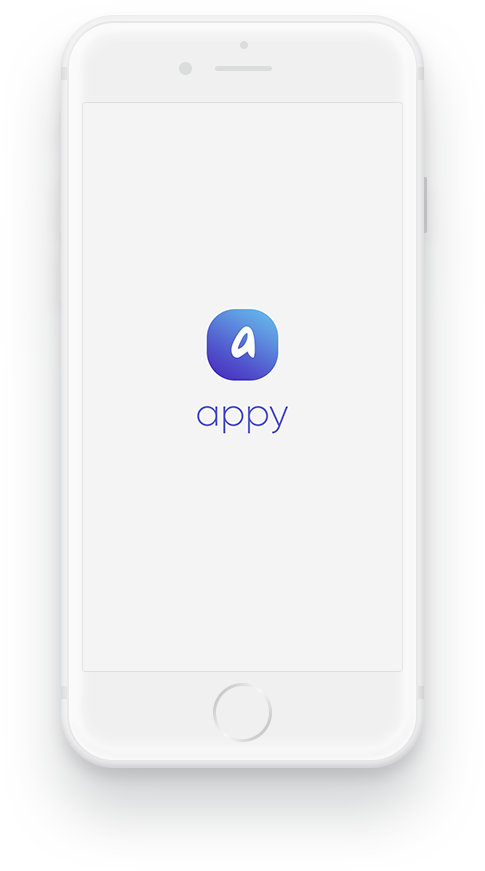
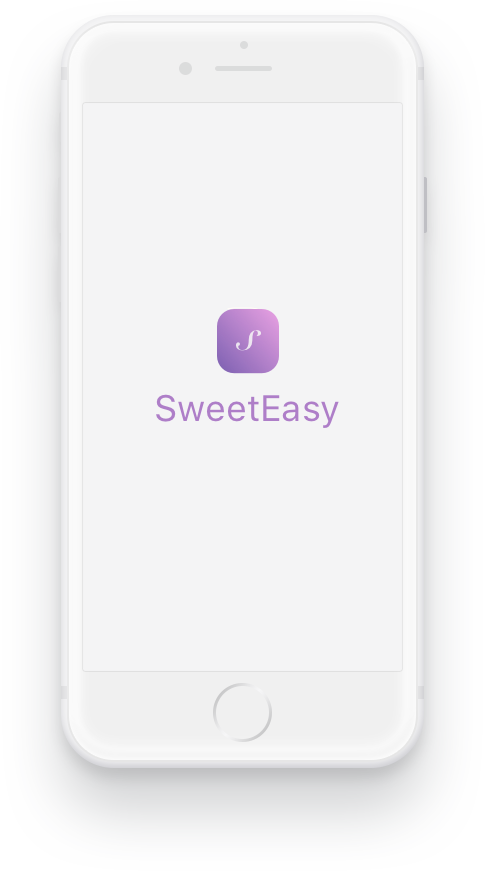
Changed color

Changed region(s): [[0.3093, 0.341, 0.7113, 0.496]]

diff --git a/style.css b/style.css
@@ -250,18 +250,15 @@ input:-webkit-autofill:focus {
     width: 100%;
     height: 100%;
     /* Permalink - use to edit and share this gradient: http://colorzilla.com/gradient-editor/#482cbf+0,6ac6f0+100 */
-    background: rgb(72, 44, 191);
-    /* Old browsers */
-    /* FF3.6-15 */
-    background: -webkit-linear-gradient(45deg, rgba(72, 44, 191, 1) 0%, rgba(106, 198, 240, 1) 100%);
-    /* Chrome10-25,Safari5.1-6 */
-    background: -o-linear-gradient(45deg, rgba(72, 44, 191, 1) 0%, rgba(106, 198, 240, 1) 100%);
-    background: linear-gradient(45deg, rgba(72, 44, 191, 1) 0%, rgba(106, 198, 240, 1) 100%);
-    /* W3C, IE10+, FF16+, Chrome26+, Opera12+, Safari7+ */
-    filter: progid:DXImageTransform.Microsoft.gradient( startColorstr='#482cbf', endColorstr='#6ac6f0', GradientType=1);
-    opacity: 0.8;
+    /* Permalink - use to edit and share this gradient: https://colorzilla.com/gradient-editor/#cb60b3+0,cb60b3+1,522799+100&0.74+0,0.94+100 */
+    background: -moz-linear-gradient(left,  rgba(203,96,179,0.74) 0%, rgba(203,96,179,0.74) 1%, rgba(82,39,153,0.94) 100%); /* FF3.6-15 */
+    background: -webkit-linear-gradient(left,  rgba(203,96,179,0.74) 0%,rgba(203,96,179,0.74) 1%,rgba(82,39,153,0.94) 100%); /* Chrome10-25,Safari5.1-6 */
+    background: linear-gradient(to right,  rgba(203,96,179,0.74) 0%,rgba(203,96,179,0.74) 1%,rgba(82,39,153,0.94) 100%); /* W3C, IE10+, FF16+, Chrome26+, Opera12+, Safari7+ */
+    filter: progid:DXImageTransform.Microsoft.gradient( startColorstr='#bdcb60b3', endColorstr='#f0522799',GradientType=1 ); /* IE6-9 */
     /* IE6-9 fallback on horizontal gradient */
     z-index: -2;
+    
+
 }
 
 .angle:after {
@@ -316,11 +313,13 @@ input:-webkit-autofill:focus {
     top: 0;
     width: 100%;
     height: 100%;
-    background: rgb(72, 44, 191);
-    background: -webkit-linear-gradient(45deg, rgba(72, 44, 191, 1) 0%, rgba(106, 198, 240, 1) 100%);
-    background: -o-linear-gradient(45deg, rgba(72, 44, 191, 1) 0%, rgba(106, 198, 240, 1) 100%);
-    background: linear-gradient(45deg, rgba(72, 44, 191, 1) 0%, rgba(106, 198, 240, 1) 100%);
-    filter: progid:DXImageTransform.Microsoft.gradient( startColorstr='#482cbf', endColorstr='#6ac6f0', GradientType=1);
+    /* Permalink - use to edit and share this gradient: https://colorzilla.com/gradient-editor/#cb60b3+0,cb60b3+1,522799+100 */
+    background: rgb(203,96,179); /* Old browsers */
+    background: -moz-linear-gradient(left,  rgba(203,96,179,1) 0%, rgba(203,96,179,1) 1%, rgba(82,39,153,1) 100%); /* FF3.6-15 */
+    background: -webkit-linear-gradient(left,  rgba(203,96,179,1) 0%,rgba(203,96,179,1) 1%,rgba(82,39,153,1) 100%); /* Chrome10-25,Safari5.1-6 */
+    background: linear-gradient(to right,  rgba(203,96,179,1) 0%,rgba(203,96,179,1) 1%,rgba(82,39,153,1) 100%); /* W3C, IE10+, FF16+, Chrome26+, Opera12+, Safari7+ */
+    filter: progid:DXImageTransform.Microsoft.gradient( startColorstr='#cb60b3', endColorstr='#522799',GradientType=1 ); /* IE6-9 */
+
     z-index: -1;
     opacity: 0;
     -webkit-transition: 0.3s;
